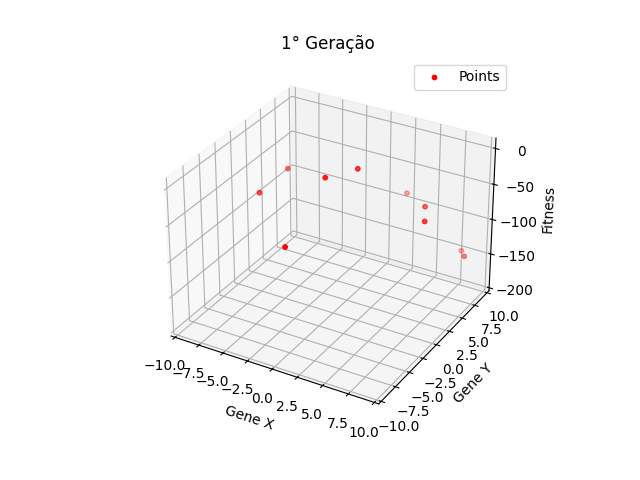
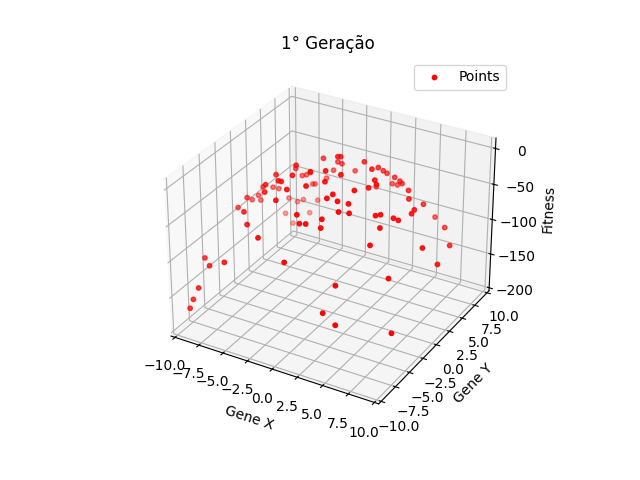
Mutacao correta

diff --git a/lib.py b/lib.py
@@ -11,9 +11,11 @@ class individual:
         self.fit = fitFunc(self.real_x, self.real_y)
 
 class population:
-    def __init__(self, pop_size):
+    def __init__(self, pop_size, cross_rate, mutation_rate):
         self.pop_size = pop_size
         self.generation = 1
+        self.mutation_rate = mutation_rate*100 # Para realizar operacoes com inteiros ao inves de float
+        self.cross_rate = cross_rate*100       # Idem
         self.individuals = self.initFirstGen()
     
     def initFirstGen(self):
@@ -52,6 +54,58 @@ class population:
         filename = "./graficos/gen"+str(self.generation)+".png"
         plt.savefig(filename)
 
+    def cross(self, par_1_index, par_2_index):
+
+        def bound_check(bin_gene):
+            real_gene = binaryToReal(bin_gene)
+            if real_gene >= -10 and real_gene <= 10:
+                return True
+            return False
+        
+        def mutation(original_gene, mut_rate):
+            mut_gene = []
+            for bit in original_gene:
+                if random.randint(0, 100) < mut_rate:
+                    if bit == "1":
+                        mut_gene.append("0")
+                    else:
+                        mut_gene.append("1")
+                else:
+                    mut_gene.append(bit)
+            mut_gene_bin = ''.join(mut_gene)
+            bound_flag = bound_check(mut_gene_bin)
+            if bound_flag:
+                return mut_gene_bin
+            else:
+                return mut_gene_bin[0]+"10011100010000"
+
+        par_1 = self.individuals[par_1_index]
+        par_2 = self.individuals[par_2_index]
+
+        if random.randint(0, 100) >= self.cross_rate: # Define se o cruzamento ocorre. Se nao, retorna os pais
+            return par_1, par_2
+
+        cut = random.randint(1, 13)
+        par_1_bin_x = [par_1.bin_x[:cut], par_1.bin_x[cut:]]
+        par_1_bin_y = [par_1.bin_y[:cut], par_1.bin_y[cut:]]
+        par_2_bin_x = [par_2.bin_x[:cut], par_2.bin_x[cut:]]
+        par_2_bin_y = [par_2.bin_y[:cut], par_2.bin_y[cut:]]
+        child_1_bin = [par_1_bin_x[0]+par_2_bin_x[1], par_1_bin_y[0]+par_2_bin_y[1]]
+        child_2_bin = [par_2_bin_x[0]+par_1_bin_x[1], par_2_bin_y[0]+par_1_bin_y[1]]
+        print(child_1_bin)
+
+        child_1_bin = [mutation(child_1_bin[0], self.mutation_rate), mutation(child_1_bin[1], self.mutation_rate)]
+        child_2_bin = [mutation(child_2_bin[0], self.mutation_rate), mutation(child_2_bin[1], self.mutation_rate)]
+
+        return child_1_bin, child_2_bin
+
+    def tournament(self, sample_size):
+        sample = random.sample(self.individuals, sample_size)
+        print(sample)
+    
+    #def initNewGeneration(self):
+
+            
 
 def fitFunc(x, y):
     return -(np.power(x, 2) + np.power(y, 2)) + 4
@@ -75,5 +129,5 @@ def realToBinary(realNum):
 
     return signalBit+binaryNum
 
-a = population(10)
+a = population(100, 1, 0.05)
 a.plotGraph()
